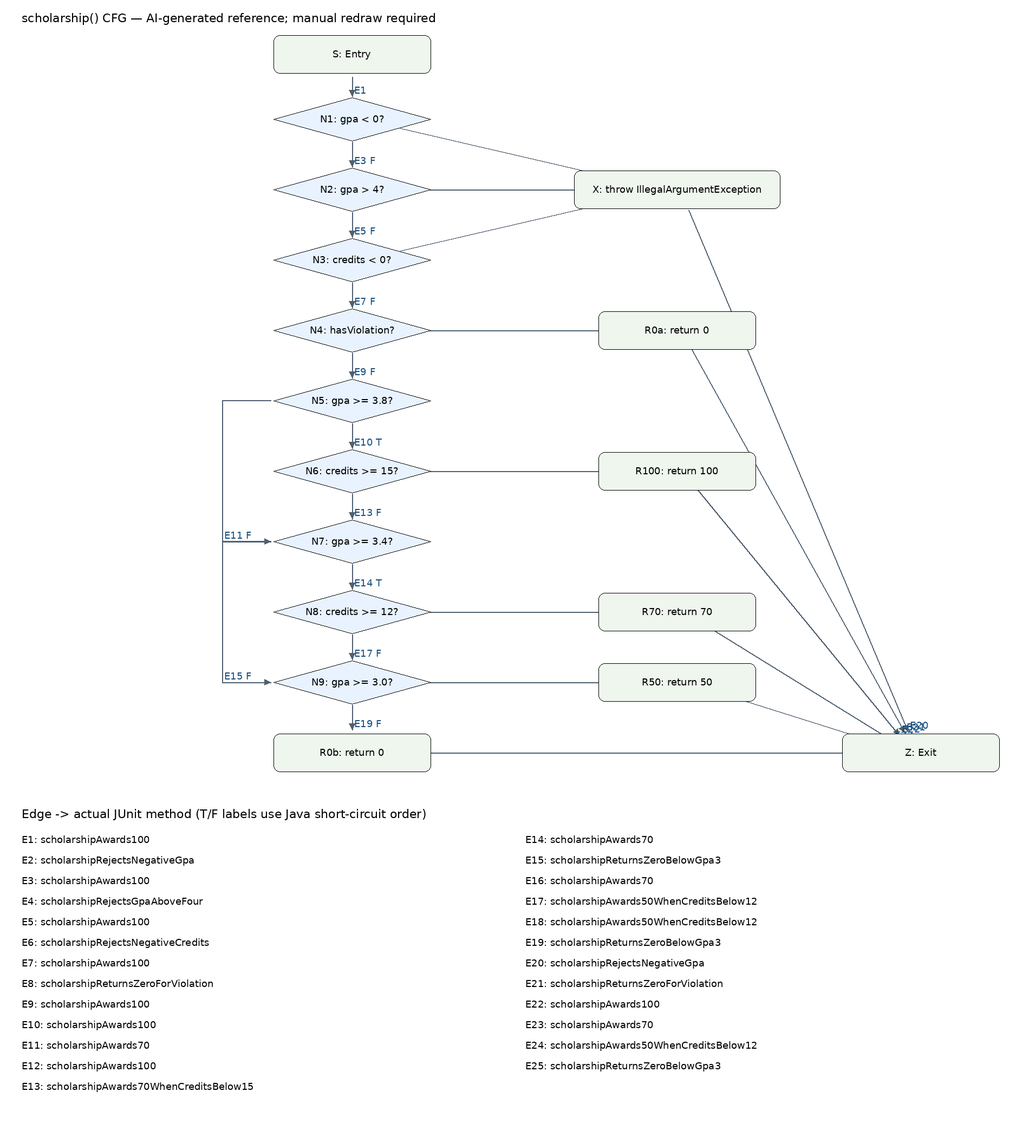
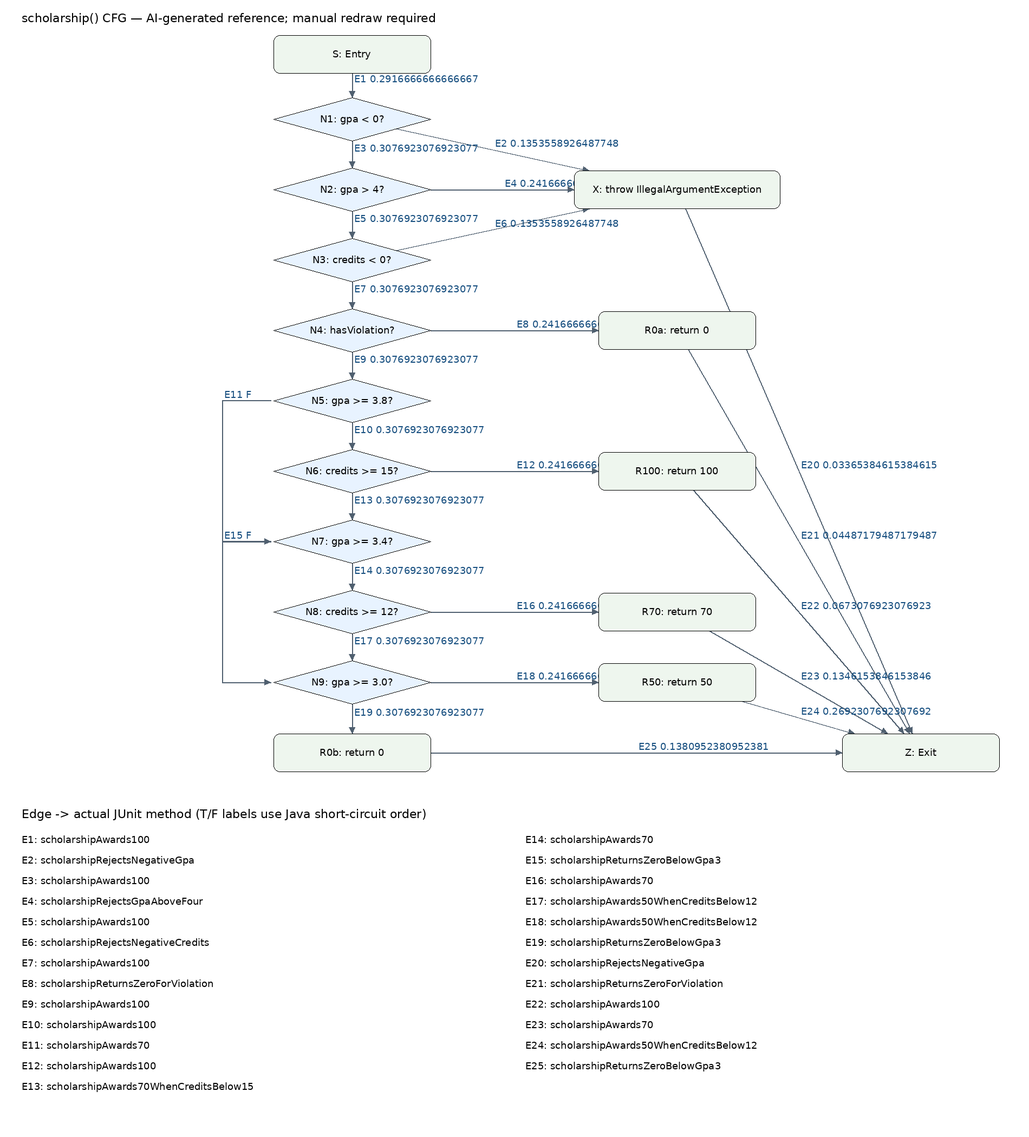
Document Lab09 evidence, boundary fix and remaining manual submission steps

diff --git a/lab09/IMPLEMENTATION_PLAN.md b/lab09/IMPLEMENTATION_PLAN.md
@@ -1,0 +1,212 @@
+# Лаборатори №9 — JaCoCo ажлын төлөвлөгөө
+
+Эх сурвалж: `Lab09 - Код хамралт JaCoCo (2026).docx`, starter-ийн `pom.xml`, `ScholarshipCalculator.java`, хэрэглэгчийн өгсөн багшийн Лаб 8-ын дүгнэлт болон Лаб 9-ийн сануулга.
+
+Эцсийн сонголт: үндсэн A–D шаардлагууд, одоогийн F.CSA313 репо; нэмэлт gate/CI/AI харьцуулалт хийхгүй. Хэрэгжүүлэлтийн бодит төлөвийг starter/README.md-ээс харна. Доорх түүхэн төлөвлөгөөний тусдаа репо бүтэц нь хэрэглэгчийн эцсийн сонголтоор хүчингүй: root-оос mvn -f lab09/starter/pom.xml verify ажиллуулна. CFG-г гараар зурах болон Teams-ийн бодит илгээлт үлдсэн.
+
+## 1. Одоогийн бүтэц ба ажлын хүрээ
+
+- Maven төсөл `lab09/starter/` дотор байна. Командуудыг энэ хавтсаас ажиллуулна.
+- Үндсэн код: `src/main/java/mn/edu/must/sqat/ScholarshipCalculator.java`.
+- Үүсгэх тест: `src/test/java/mn/edu/must/sqat/ScholarshipCalculatorTest.java`.
+- Starter нь Java release 17, JUnit Jupiter 5.10.2, Surefire 3.2.5, JaCoCo 0.8.12 ашиглаж байна. `prepare-agent`, `verify` үе шатны `report` тохиргоо бий.
+- Одоогоор тест, README, results байхгүй. Гадна хавтсанд багшийн DOCX, `__MACOSX/`, `*:Zone.Identifier` байна; эдгээрийг илгээх репод оруулахгүй.
+- `letterGrade()`-ийн `score > 60` нь спецификацийн 60–69.99 → D дүрмийг зөрчсөн. A/B/C үед өөрчлөхгүй; D хэсэгт эхлээд унасан тестийн нотолгоо гаргаад засна.
+- Хэрэглэгчийн эцсийн сонголтоор одоогийн public `F.CSA313` репозиторийн `lab09/starter/` дотор байрлана. Одоогийн хичээлийн репогийн бусад лаборатори, өөрчлөлтөд хүрэхгүй. Git үйлдэл бүрийн өмнө аль репод ажиллаж байгааг шалгана; бэлтгэлийн үед дур мэдэн nested repository үүсгэхгүй.
+
+## 2. Бэлтгэл ба орчны нотолгоо
+
+1. `git status`, одоогийн branch, remote, default branch болон байгаа файлуудыг шалгах. Хамааралгүй өөрчлөлтүүдийг хадгалах.
+2. Оюутны бодит нэр, кодыг тодруулах. README-д загварын нэр, өнцөг хаалт, `PASTE_VERSIONS_HERE` үлдээхгүй.
+3. `java -version 2>&1`, `mvn -version 2>&1` ажиллуулж бүтэн бодит гаралтыг README-ийн эхэнд хадгалах. Хуучин лабораторийн хувилбарын мэдээллийг дахин ашиглахгүй.
+4. `git config user.name`, `git config user.email`-ийг шалгах; `Your Name`, `Таны нэр` зэрэг загвар байвал бодит тохиргоо хэрэгтэй. Хувийн мэдээллийг таамгаар нөхөхгүй.
+5. Илгээх төслийн `.gitignore`-д `target/`, `.idea/`, `.DS_Store`, `__MACOSX/`, `*:Zone.Identifier`, багшийн `*.docx`-ыг хасах дүрэм оруулах. Ignore нэмэхээс өмнө tracked болсон файл байвал зөвхөн тухайн файлыг index-ээс гаргах; эх файлуудыг дур мэдэн устгахгүй.
+6. Тестгүй starter дээр `mvn verify` ажиллуулж суурь төлөвийг шалгах. `No tests to run`, `Skipping JaCoCo execution due to missing execution data file` хэвийн; энэ үед тайлан байхгүйг алдаа гэж үзэхгүй. Бодит build алдаа гарвал эхлээд түүнийг оношлох.
+
+Лог авах бүрд Bash дээр `set -o pipefail` хэрэглэнэ. `tee` амжилттай болсон нь Maven амжилттай болсон гэсэн үг биш; Maven-ийн үр дүн, логийн төгсгөлийг давхар шалгана. Логийг засварлахгүй, UTF-8-аар хадгална. Тестийн метод, parameterized display name-ийг латин үсгээр өгнө.
+
+## 3. Хэсэг A — зөвхөн happy path, эхний хэмжилт
+
+Яг 5 энгийн `@Test`-ээр эхэлнэ:
+
+| Тестийн төлөвлөсөн нэр | Оролт | Хүлээгдэх үр дүн |
+|---|---|---|
+| `letterGradeReturnsAFor95` | `95` | `"A"` |
+| `letterGradeReturnsBFor85` | `85` | `"B"` |
+| `gpaAveragesTwoScores` | `[95, 85]` | `3.5` |
+| `scholarshipAwards100` | `3.9, 16, false` | `100` |
+| `scholarshipAwards70` | `3.5, 12, false` | `70` |
+
+Энэ шатанд exception, `60` заагийн тест нэмэхгүй. Бутархай голчийн assert-д тохирох tolerance хэрэглэнэ.
+
+```bash
+mkdir -p results
+set -o pipefail
+mvn verify 2>&1 | tee results/mvn-verify-A.txt
+cp target/site/jacoco/jacoco.csv results/jacoco-A.csv
+```
+
+- Эхний тестүүдийн дараа `target/site/jacoco/index.html` үүссэнийг шалгаж, `mn.edu.must.sqat` → `ScholarshipCalculator` тайланг нээх.
+- Instructions, Branches, Lines, Methods баганыг ажиглах. CSV-ийн тухайн классын мөрөөс Line, Branch хувийг тооцох: `covered / (missed + covered) × 100`.
+- Ойролцоогоор Line 60%, Branch 50% гэсэн зааврын баримжааг ашиглах боловч README-д зөвхөн бодит CSV-ийн утгыг бичих. Баримжаанд тааруулахын тулд тоо өөрчлөхгүй.
+- Шар ромботой дутуу салаа, улаан exception/бусад хүрээгүй мөрүүдийг бодит HTML тайлантай тулгаж README-д 2–3 өгүүлбэрээр тайлбарлах.
+- A-ийн лог, CSV, тест, README-ийн A хэсгийг хамтад нь шалгаад `Add happy-path tests and record initial coverage` зэрэг тодорхой commit хийх.
+
+## 4. Хэсэг B — CFG ба Line/Branch 100%
+
+### 4.1 scholarship()-ийн CFG
+
+CFG-г оюутан цаасан дээр эсвэл draw.io/Excalidraw-д **гараар** зурж `cfg.png` болгоно. Энэ төлөвлөгөөний хүснэгт нь гараар зурах CFG-г орлохгүй.
+
+- Лекц 9-ийн тэмдэглэгээг ашиглаж entry, exit, шийдвэр, exception, return зангилаа болон чиглэлтэй ирмэгүүдийг дугаарлах.
+- Эхний `||`-ийн `gpa < 0`, `gpa > 4`, `credits < 0` болон хоёр `&&`-ийн нөхцөлүүдийг short-circuit дарааллаар тусдаа шийдвэр болгон илэрхийлэх.
+- `hasViolation`, `gpa >= 3.0`, `return 0/50/70/100`, exception замуудыг бүрэн харуулах.
+- Ирмэг бүрд тэр замыг дайрсан **бодит тестийн методын яг нэрийг** бичих. Нэг ирмэг олон тесттэй байж болно. Нэр солигдвол зурагтай хамт засах.
+- Эхлээд A-ийн тестүүдийг зурагт буулгаад хоосон ирмэгүүдээс B-ийн тестүүдийн жагсаалтыг гаргах. Эцэст нь exception-оос exit хүртэлх ирмэгийг ч нэргүй үлдээхгүй.
+
+### 4.2 Нэмэх тестийн матриц
+
+| Функц/зам | Оролтын жишээ | Хүлээгдэх үр дүн / зорилго |
+|---|---|---|
+| letterGrade-ийн C, D, F | `75`, `65`, `50` | `C`, `D`, `F`; зааг 60-ыг одоохондоо хэрэглэхгүй |
+| Онооны доод, дээд хязгаарын зөрчил | `-1`, `101` | Тус тус `assertThrows(IllegalArgumentException.class, ...)` |
+| gpa null, хоосон | `null`, `[]` | Тусдаа нэртэй exception тестүүд; C үед мөн дахин ашиглана |
+| gpa switch-ийн бүх case/default | `[95,85,75,65,50]` | `2.0`; A/B/C/D болон F default салаа |
+| scholarship invalidGpaBelowZero | `-0.1,16,false` | Эхний OR нөхцөлийн true, exception |
+| scholarship invalidGpaAboveFour | `4.1,16,false` | Хоёр дахь OR нөхцөлийн true, exception |
+| scholarship invalidNegativeCredits | `3.9,-1,false` | Гурав дахь OR нөхцөлийн true, exception |
+| scholarship сахилгын зөрчил | `3.9,16,true` | `0` |
+| Өндөр голч, 15 хүрэхгүй кредит | `3.9,14,false` | `70`; эхний AND-ийн голч true, кредит false |
+| Дунд голч, 12 хүрэхгүй кредит | `3.5,11,false` | `50`; хоёр дахь AND-ийн голч true, кредит false |
+| Голч 3-аас бага | `2.9,16,false` | `0`; сүүлчийн if-ийн false |
+
+A-ийн тестүүдтэй хамт нөхцөл бүрийн true/false замыг шалгана. `gpa`-ийн for давталтын оролт/гаралт, switch default-ийг тайлангаас батална. Exception-уудыг нэг ерөнхий тестийн нэрийн цаана нуухгүй; ялангуяа scholarship-ийн гурван хүчингүй оролт тусдаа тест байна.
+
+```bash
+set -o pipefail
+mvn verify 2>&1 | tee results/mvn-verify-B.txt
+cp target/site/jacoco/jacoco.csv results/jacoco-B.csv
+```
+
+- CSV-ийн `ScholarshipCalculator` мөрөнд `BRANCH_MISSED = 0`, `LINE_MISSED = 0` болох хүртэл үлдсэн замыг HTML-ээс оношилж нэмэх.
+- Зааврын 40/41 анхааруулга гарвал OR-ийн гурван true, AND-ийн кредит false зам, F default-ийг эхэлж шалгах. 41 гэсэн тоог урьдчилан үр дүн мэт бичихгүй.
+- README-д B үед хэдэн тест ажилласныг Maven-ийн нийт `Tests run` мөрөөс авах. Parameterized тест хэрэглэвэл invocation бүр тоологдохыг анхаарах.
+- Branch/Line 100% болохоос өмнө D-ийн заагийн тест нэмэхгүй, production кодыг засахгүй.
+- CFG, B-ийн лог/CSV, тест, README-ийг шалгаад `Cover all branches and document scholarship CFG` commit хийх.
+
+## 5. Хэсэг C — давталтын 0 / 1 / 2+ зааг
+
+| Давталтын ангилал | Тест | Шалгалт |
+|---|---|---|
+| 0 | `gpaRejectsEmptyScores`, `gpaRejectsNullScores` | Хоосон болон null бүрд `assertThrows`; B-д байгаа бол давхардуулахгүй |
+| 1 | `gpaHandlesSingleScore` | `[95] → 4.0` |
+| 2+ | `gpaHandlesMultipleScores` | `[95,85,75,65] → 2.5` |
+
+Энд гурван ангилал, null-ийг оруулбал дөрвөн бодит тохиолдол байна. Зааварт өгсөн `[95,85,75,65]` жишээг B-ийн таван дүнтэй switch тестээр орлуулахгүй.
+
+- `mvn verify` ажиллуулж ногоон, хамралт хэвээр байгааг шалгах. Хүсвэл нэмэлт `results/mvn-verify-C.txt`, `results/jacoco-C.csv` хадгалж болно; A/B-ийн нотолгоог дарж бичихгүй.
+- README-д 2 өгүүлбэрээр: 100% хамралт давталтын бүх урт дахь тооцооны зөвийг батлахгүй; 0/1/олон оролт нь хоосон оролтын гэрээ, нэг элементийн тооцоо, хуримтлал/хуваалтыг тус тус шалгадаг гэж бодит тесттэй холбон тайлбарлах.
+- `Add loop-boundary tests for GPA` commit хийх.
+
+## 6. Хэсэг D — улаан тест → тусдаа засвар → эцсийн ногоон
+
+### 6.1 Алдааг илрүүлэх
+
+Production кодыг өөрчлөхөөс **өмнө** дараах 7 заагийн тохиолдлыг тест болгоно:
+
+| score | expected |
+|---|---|
+| `60` | `D` |
+| `59.99` | `F` |
+| `69.99` | `D` |
+| `0` | `F` |
+| `100` | `A` |
+| `89.99` | `B` |
+| `90` | `A` |
+
+`letterGradeReturnsDAt60` гэх тодорхой нэртэй тест ашиглаж, логт аль тест унасныг таних боломжтой болгоно.
+
+```bash
+set -o pipefail
+mvn test 2>&1 | tee results/mvn-test-D-fail.txt
+```
+
+- Энд nonzero exit / `BUILD FAILURE` нь хүлээгдэж буй нотолгоо. Логт бодит тестийн нэр, `expected: <D> but was: <F>` утга байгаа эсэхийг шалгах.
+- Санаатай заагийн алдаанаас өөр failure байвал түүнийг тусад нь оношлох. Хиймлээр лог бичихгүй.
+- Унасан тестийн дараах `mvn verify` нь report шатанд хүрэхгүй. Хуучин HTML/CSV-г шинэ амжилттай хэмжилт гэж ашиглахгүй.
+- Унасан тестүүд ба fail логийг `Expose letterGrade boundary defect at score 60` гэсэн тусдаа commit-оор хадгалахыг зөвлөж байна. Энэ нь засварын өмнөх бодит түүхийг харуулна.
+
+### 6.2 Засвар ба final нотолгоо
+
+- Спецификацитай харьцуулж `if (score > 60)`-ыг `if (score >= 60)` болгох. Өөр дүрэм, API-г өөрчлөхгүй.
+- Засвар болон шинэ ногоон үр дүнг тусдаа commit-оор хадгалах; жишээ message: `Fix letterGrade: include score 60 in D range`.
+
+```bash
+set -o pipefail
+mvn verify 2>&1 | tee results/mvn-verify-final.txt
+cp target/site/jacoco/jacoco.csv results/jacoco-final.csv
+```
+
+- Нийт тест ногоон, `Failures: 0`, `Errors: 0`, `Skipped: 0`, `BUILD SUCCESS`, HTML тайлан үүссэн эсэхийг шалгах.
+- Final CSV-д `ScholarshipCalculator`-ийн `BRANCH_MISSED = 0`, `LINE_MISSED = 0`, Line/Branch хоёул 100% байх.
+- README-д fail логоос бодит тестийн нэр, assertion мөрийг оруулах. Засварын commit hash-ийг бодит commit үүссэний дараа бичих; шаардлагатай бол README-ийн лавлагааг дараагийн documentation commit-д нэмэх.
+- Гол дүгнэлтийг **4–6 өгүүлбэрээр** бичих: `>` ба `>=` ижил салааны бүтэцтэй; B-ийн оролтууд хоёр талыг дайрсан ч яг 60-ыг шалгаагүй; заагийн тест oracle-той харьцуулж алдааг илрүүлсэн; хамралт кодын гүйцэтгэлийг хэмждэг, спецификацийн зөв/бүх оролтын зөвийг баталдаггүй; бүтцийн ба зааг утгын тестийг хослуулах шаардлагыг тайлбарлах.
+
+## 7. README-ийн бүрэн бүтэц ба зөрүү шалгах дүрэм
+
+1. Бодит нэр, оюутны код; `java -version`, `mvn -version` командын бүтэн гаралт.
+2. Ажиллуулах богино заавар: Java 17+, Maven, төслийн root-оос `mvn verify`, HTML тайлангийн зам.
+3. A: CSV-ээс тооцсон Line/Branch хувь, missed/covered тоо, шар/улаан мөрийн 2–3 өгүүлбэр ажиглалт, A лог/CSV-ийн холбоос.
+4. B: `cfg.png`-ийг харуулах; ирмэг-тест нэр таарах; бодит нийт тестийн тоо; B CSV-ийн хоёр MISSED=0; нотолгооны холбоос.
+5. C: 0/1/2+ болон null тохиолдлын бодит тестийн нэр; яагаад хамралт өсөхгүй ч хэрэгтэйг 2 өгүүлбэрээр.
+6. D: бодит унасан тест/алдааны мөр, fail логийн холбоос, засварын commit холбоос/hash, final лог/CSV, 4–6 өгүүлбэрийн гол дүгнэлт.
+7. AI ашиглалт: энэ төлөвлөгөө боловсруулахад AI ашигласныг болон цааш тест/CFG зөвлөгөө/тайлбарын алинд ашигласныг бодитоор бичих. AI-ийн ажлыг өөрийн гараар хийсэн гэж мэдүүлэхгүй; CFG-г гараар хийх шаардлагыг хэвээр хангах.
+8. Нэмэлт даалгавар хийсэн бол тусдаа үр дүн, нотолгоо.
+
+README-ийн **бүх тоо, тестийн нэр, алдааны мөр, commit** нь харгалзах файл/түүхтэй таарна. A-ийн тоог final логтой, B-ийн тоог final тестийн тоотой андуурахгүй. Хувийг сонгосон нарийвчлалаар дугуйруулж томьёогоо бичнэ. Screenshot нь CSV, логийг орлохгүй.
+
+Лаб 8-ын mock/fake, юуг mock хийхгүй, verify хэтрүүлэх тухай гурван асуулт нь Лаб 8-ын тайлангийн шаардлага; Лаб 9-ийн A/B/C/D тайлбарыг түүгээр орлуулахгүй. Харин тухайн лабораторийн бүх асуултад тус бүр хариулах, README ба нотолгоог тулгах зарчмыг энд мөрдөнө. Лаб 8-ын дахин илгээх 11/08 23:59 хугацааг Лаб 9-ийн due date гэж үзэхгүй; Лаб 9-ийн хугацааг Teams Assignment-ээс шалгана.
+
+## 8. Commit ба илгээх репозиторийн бүтэц
+
+Доод тал нь 4 бодит үе шатны commit шаардлагатай. Төлөвлөсөн түүх: A → B → C → D-fail → D-fix → шаардлагатай README лавлагааны засвар. Үе шат бүрийн ажлыг хийж, үр дүнг уншиж, нотолгоог шалгасны дараа commit хийнэ. Дууссан ажлыг буцааж жижиглэн нэг минутын дотор commit хийх, огноо өөрчлөх, `readme2` зэрэг утгагүй message ашиглахгүй.
+
+```text
+lab09-jacoco/                 # public репозиторийн root
+├── .gitignore
+├── pom.xml
+├── src/main/java/mn/edu/must/sqat/ScholarshipCalculator.java
+├── src/test/java/mn/edu/must/sqat/ScholarshipCalculatorTest.java
+├── README.md
+├── cfg.png
+└── results/
+    ├── mvn-verify-A.txt
+    ├── jacoco-A.csv
+    ├── mvn-verify-B.txt
+    ├── jacoco-B.csv
+    ├── mvn-test-D-fail.txt
+    ├── mvn-verify-final.txt
+    └── jacoco-final.csv
+```
+
+HTML тайлангийн зургуудыг нэмэлтээр оруулж болно. `target/`, `.idea/`, `.DS_Store`, DOCX, `__MACOSX/`, `Zone.Identifier` tracked файлд байхгүйг шалгана. Энэ төлөвлөгөөний файл нь даалгаврын README болон нотолгоог орлохгүй.
+
+## 9. GitHub, шинэ clone, Teams — эцсийн шалгалт
+
+- [ ] Public репозиторийн root дээр `pom.xml`, `src/`, README, cfg.png, бүх 7 results файл харагдана.
+- [ ] Бүрэн ажил remote-ийн **default branch** дээр байна; main/master нэрийг таамаглахгүй. Илгээх root URL хоосон branch руу хүргэхгүй.
+- [ ] Remote commit түүх A/B/C/D явцыг харуулсан, D засвар тусдаа байна.
+- [ ] Илгээх URL-ээс шинэ хавтсанд clone хийж, root-оос `mvn verify` амжилттай ажиллана. Энэ шалгалт хэрэгжүүлэлтийн локал ногоон үр дүнгээс тусдаа нотолгоо байна.
+- [ ] Шинэ clone-ийн CSV-ийн missed/covered утгыг `results/jacoco-final.csv`-тэй тулгана; хоёр MISSED=0, README-ийн final хувь зөв.
+- [ ] Шинэ clone-ийн final тестийн тоо `results/mvn-verify-final.txt`-тай таарна; тайлангийн HTML үүснэ.
+- [ ] A/B snapshot файлууд дараагийн ажилд дарагдаагүй, B-ийн тестийн тоо зөв; D fail логт бодит assertion байгаа; results текст UTF-8.
+- [ ] Placeholder, AI-ийн «өөрийн машин дээр ажиллуул» гэх бэлэн заавар, кодод байхгүй боломжийн тайлбар, хог файл үлдээгүй.
+- [ ] Лаб 9-ийн Teams due date-ийг шалгасан; архив биш public репозиторийн **root линк** хавсаргасан.
+- [ ] Хугацаанаас өмнө **Turn in** дарж, илгээсэн төлөвийг бодитоор шалгасан. Зөвхөн линк хавсаргасан, локал build ногоон, эсвэл GitHub push болсон нь Teams илгээлтийн баталгаа биш.
+
+## 10. Сонголтот нэмэлт ажил — үндсэн шаардлагын дараа
+
+- Сонголт 1: JaCoCo `check`-ээр Branch доод хязгаар 90% болгох, GitHub Actions CI-д холбох. Амжилттай болон босгоос доош үед унасан бодит үр дүнг шалгаж тайлбарлах; тохиргоо бичсэнээр CI ажилласан гэж дүгнэхгүй.
+- Сонголт 2: **A-ийн дараах, 100% хүрээгүй** snapshot-ийг хадгалж AI-д 100% болгох тест хүсэх. Тусгаарласан ажлын хуулбарт туршиж (1) хамралт 100% болсон эсэх, (2) яг 60-ийн алдааг барьсан эсэхийг хэмжих. Алдааг баривал D нотолгоог үндсэн түүхэнд эрт засаж устгахгүй. Prompt, тест, бодит гаралт, CSV-г хадгалж README-д **5–8 өгүүлбэрээр** дүгнэх. Энэ сонголтыг хийх бол A дуусмагц snapshot бэлтгэхээр урьдчилан төлөвлөх.
+
+Нэмэлт ажил заавал биш. Үндсэн A–D, README, CFG, нотолгоо, бодит commit болон хугацаанд нь Turn in хийх шаардлагыг түрүүлж хангана.

diff --git a/lab09/starter/README.md b/lab09/starter/README.md
@@ -54,3 +54,33 @@ Line 25/25 = 100%, Branch 41/41 = 100%; LINE_MISSED=0, BRANCH_MISSED=0.
 2+ ангилал: `gpaHandlesMultipleScores` нь [95,85,75,65] → 2.5.
 Хамралт 100% байсан ч энэ нь давталтын бүх уртад тооцоо зөв гэдгийг батлахгүй.
 Эдгээр тест хоосон оролтын гэрээ, нэг элементийн тооцоо, олон элементийн хуримтлал ба хуваалтыг тус тус шалгадаг учраас хэрэгтэй.
+
+## D — Зааг утгын алдаа
+
+[Унасан лог](results/mvn-test-D-fail.txt): 29 тестээс 1 унасан.
+
+```text
+ScholarshipCalculatorTest.letterGradeReturnsDAt60:31 expected: <D> but was: <F>
+```
+
+Тусдаа [засварын commit: 155cff1](https://github.com/khishigtogtkh/F.CSA313/commit/155cff1) нь `score > 60` нөхцөлийг `score >= 60` болгосон.
+[Эцсийн лог](results/mvn-verify-final.txt): Tests run: 29, Failures: 0, Errors: 0, Skipped: 0; BUILD SUCCESS.
+[Эцсийн CSV](results/jacoco-final.csv): Line 25/25 = 100%, Branch 41/41 = 100%; LINE_MISSED=0, BRANCH_MISSED=0.
+
+### Гол дүгнэлт
+
+B хэсгийн тестүүд бүх салааг дайрсан боловч яг 60 онооны хүлээгдэх үр дүнг шалгаагүй.
+`score > 60` ба `score >= 60` нь ижил салааны бүтэцтэй тул branch хамралт дангаараа энэ ялгааг харуулахгүй.
+Зааг утгын тест спецификацийн 60 оноо D байх дүрэмтэй үр дүнг харьцуулж алдааг илрүүлсэн.
+JaCoCo нь тест ажиллахад кодын ямар мөр, салаа гүйцэтгэгдсэнийг хэмждэг.
+Хамралт нь бүх оролтод тооцоо зөв, эсвэл спецификаци бүрэн биелснийг батлахгүй.
+Иймээс бүтцийн хамралтыг зааг утгын болон хүлээгдэх үр дүнг шалгах тестүүдтэй хослуулах хэрэгтэй.
+
+## Нотолгоо ба илгээлтийн төлөв
+
+A → B → C → D-fail → D-fix нь тусдаа бодит commit-уудтай.
+[Тестгүй starter-ийн тусгаарласан давтан шалгалт](results/mvn-verify-starter.txt) нь A үеийн commit-ийн pom/source-ийг тестгүй түр хавтаст хуулж дараа нь ажиллуулсан; анхны run гэж мэдүүлээгүй.
+CFG нь AI-аар үүсгэсэн лавлах хэвээр; гараар дахин зурах шаардлага үлдсэн.
+Teams-ийн Lab09 due date болон Turn in төлөвийг энэ орчноос баталгаажуулаагүй.
+AI нь CFG лавлах зураг, ирмэгийн жагсаалт, README болон Git ажлын тусламжид мөн ашиглагдсан.
+Нэмэлт coverage gate, Lab09 CI, AI харьцуулалт хийгээгүй. Одоо байгаа GitHub Actions нь Lab08-ыг шалгадаг.

diff --git a/README.md b/README.md
@@ -1,6 +1,31 @@
 ## Оюутны мэдээлэл
 - Хичээл: F.CSA313 — Программ хангамжийн чанарын баталгаа ба тест
-- Нэр: [С.Хишигтогтох]
-- Оюутны код: [B232270806]
+- Нэр: С.Хишигтогтох
+- Оюутны код: B232270806
 
 
+
+## Лаборатори 09 — JaCoCo
+
+[Бүрэн тайлан ба илгээлтийн төлөв](lab09/starter/README.md) · [CFG лавлах](lab09/starter/cfg.png)
+
+```bash
+git clone https://github.com/khishigtogtkh/F.CSA313.git
+cd F.CSA313
+mvn -f lab09/starter/pom.xml verify
+```
+
+29 тест; Line ба Branch 100%. Гараар зурах CFG болон Teams илгээлт үлдсэн.
+
+### Lab09 хэмжилтийн орчин
+
+```text
+openjdk version "17.0.20.1" 2026-08-18
+OpenJDK Runtime Environment (build 17.0.20.1+1-1-24.04-Ubuntu)
+OpenJDK 64-Bit Server VM (build 17.0.20.1+1-1-24.04-Ubuntu, mixed mode, sharing)
+Apache Maven 3.9.10 (5f519b97e944483d878815739f519b2eade0a91d)
+Maven home: /mnt/c/Program Files/apache-maven-3.9.10
+Java version: 17.0.20.1, vendor: Ubuntu, runtime: /usr/lib/jvm/java-17-openjdk-amd64
+Default locale: en, platform encoding: UTF-8
+OS name: "linux", version: "6.18.54.1-microsoft-standard-wsl2", arch: "amd64", family: "unix"
+```
